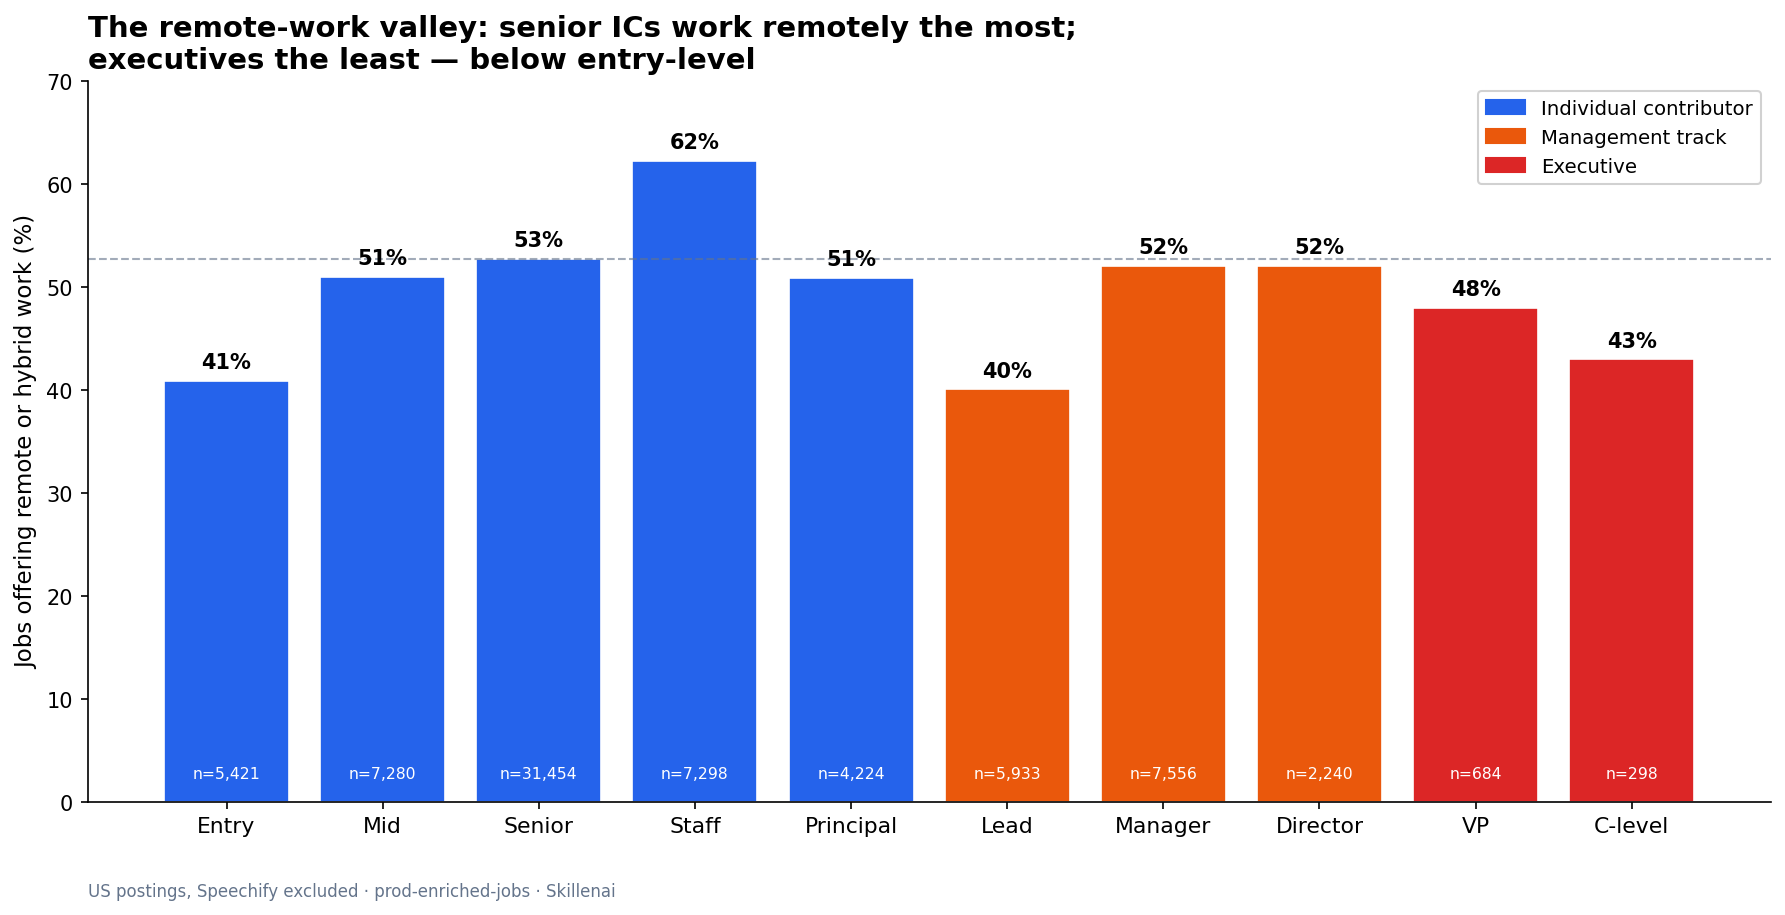
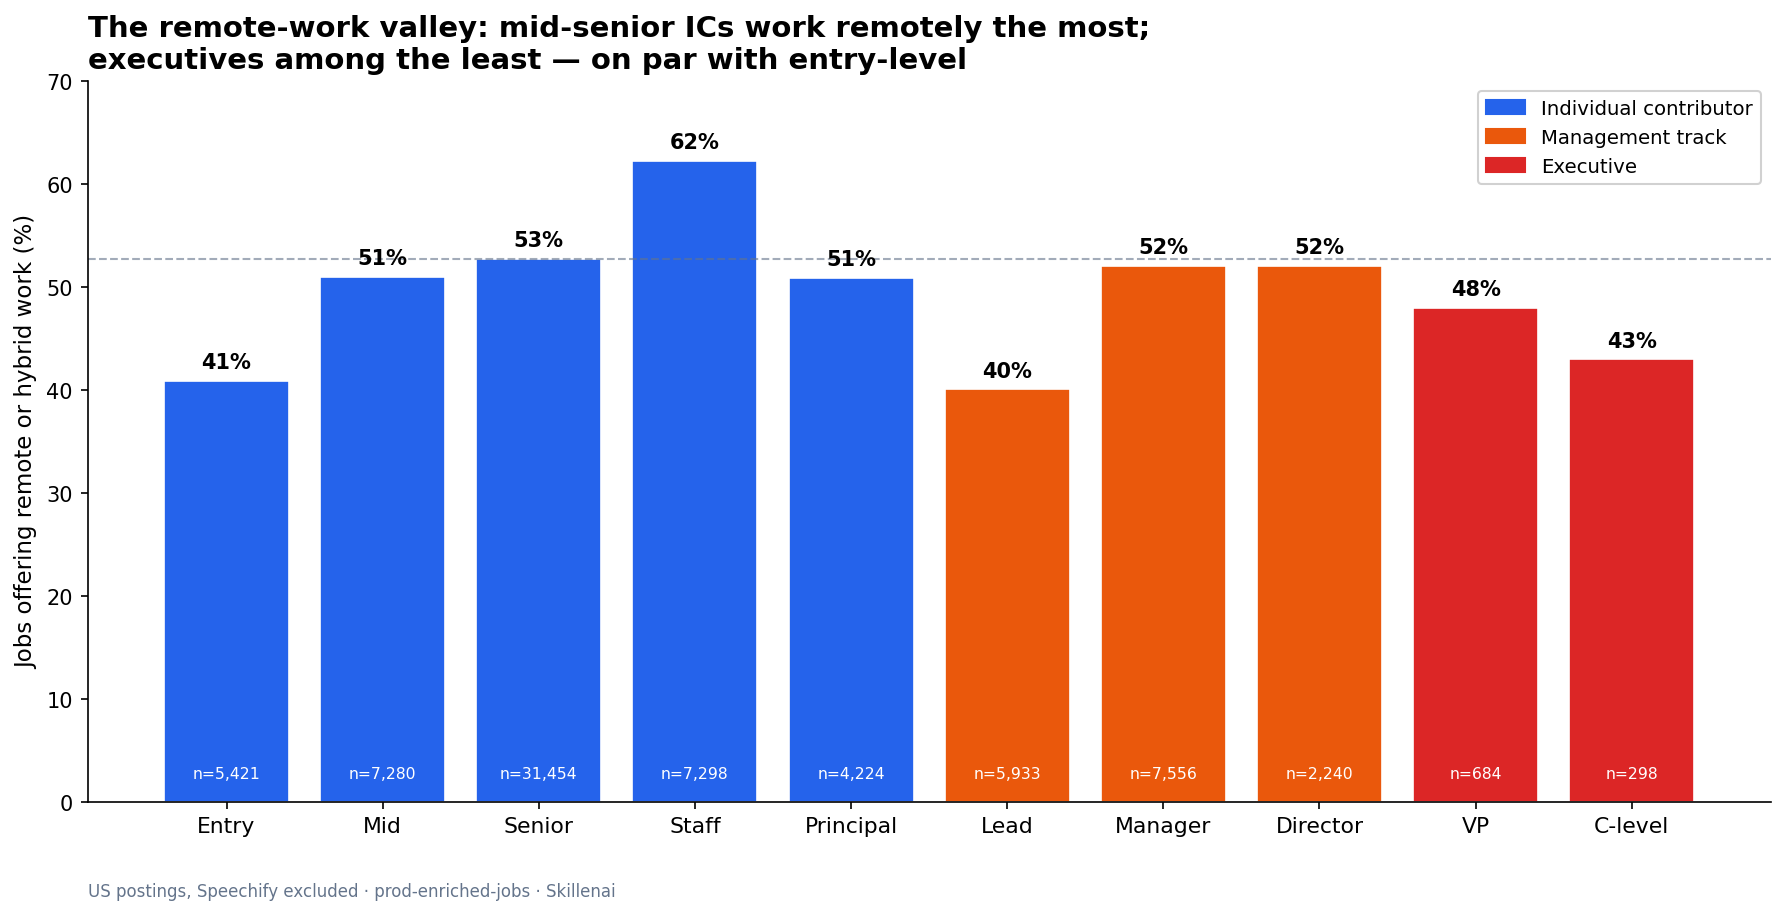
Fix inaccurate exec-remote claim (execs on par with entry, not below)
C-level any-remote is 43.0% vs Entry 40.9% — execs are NOT below entry-level
(Lead 40.1% and Entry are the lowest cohorts). Corrected figure 1 title,
README prose (3 spots), and LinkedIn draft.

Changed region(s): [[0.1541, 0.0, 0.6471, 0.0918]]

diff --git a/middle-management-purge/make_figures.py b/middle-management-purge/make_figures.py
@@ -51,7 +51,7 @@ ax.set_xticklabels(labels, fontsize=10.5)
 ax.set_ylabel("Jobs offering remote or hybrid work (%)", fontsize=11)
 ax.set_ylim(0, 70)
 ax.axhline(52.8, color=GREY, ls="--", lw=1, alpha=0.6)
-ax.set_title("The remote-work valley: senior ICs work remotely the most;\nexecutives the least — below entry-level",
+ax.set_title("The remote-work valley: mid-senior ICs work remotely the most;\nexecutives among the least — on par with entry-level",
              fontsize=14, fontweight="bold", loc="left")
 # Legend
 from matplotlib.patches import Patch

diff --git a/middle-management-purge/README.md b/middle-management-purge/README.md
@@ -18,7 +18,7 @@ A note on what this data is and isn't: we measure the **role structure** of the 
 
 ## Finding 1 — The remote-work valley
 
-Remote/hybrid availability is not monotonic in seniority. On the **individual-contributor (IC) ladder** it rises to a peak at Staff, then the **management ladder sits lower**, and **executives are the least-remote cohort in the entire market** — below even entry-level workers.
+Remote/hybrid availability is not monotonic in seniority. On the **individual-contributor (IC) ladder** it rises to a peak at Staff, then the **management ladder sits lower**, and **executives land at the bottom of the experienced ranks** — on par with entry-level workers (C-level 43% vs Entry 41%) and below every senior IC and management tier.
 
 ![Any-remote share by seniority level](01_remote_by_seniority.png)
 
@@ -37,7 +37,7 @@ Remote/hybrid availability is not monotonic in seniority. On the **individual-co
 
 \* "Lead" is a contaminated bucket — see Finding 2.
 
-**Takeaway:** the people issuing return-to-office mandates (VPs, C-level) are themselves the most office-bound group. They aren't coming back *to* anything; they never left.
+**Takeaway:** the people issuing return-to-office mandates (VPs, C-level) have barely more remote flexibility than the most junior workers — they aren't coming back *to* anything; they never left.
 
 ---
 
@@ -105,7 +105,7 @@ The explanation that fits the timing is a **boom-and-correction cycle in managem
 ## Takeaways
 
 1. **The middle-management purge is real, but the two tidiest explanations both fail in the hiring data.** Remote-first companies are not flatter (three tests, including a between-company ρ of +0.12 in the wrong direction). AI fails on timing.
-2. **The remote-work valley:** senior ICs (Staff, 62%) are the most-remote workers in the market; executives (C-level, 43%) are the least — below entry-level. RTO mandates flow from the group that is already the most office-bound.
+2. **The remote-work valley:** senior ICs (Staff, 62%) are the most-remote workers in the market; executives (C-level, 43%) sit at the bottom of the experienced ranks — on par with entry-level (41%) and below every senior IC and management tier. RTO mandates flow from a group that already has among the least remote flexibility.
 3. **"Lead" has become a meaningless management signal** — a grab-bag of senior-IC and non-management titles — consistent with widely-reported tech title inflation in 2019–2021.
 4. **The driver that fits 2020:** an over-hiring/title-inflation bubble built on cheap money and a tight labor market, now correcting through layoffs because inflated titles can't be walked back.
 

diff --git a/middle-management-purge/linkedin-post.md b/middle-management-purge/linkedin-post.md
@@ -16,7 +16,7 @@ What actually started in 2020 was the unwinding of a title bubble. The ZIRP era 
 
 Title inflation never reverses. You can't re-title someone "junior" without losing them. So it corrected the only way it could: through layoffs of the layer that grew the fastest.
 
-The kicker? In our data, the least-remote workers in the entire market are executives, at 43% — below entry level. The people issuing RTO mandates never left the office themselves.
+The kicker? In our data, executives sit at the bottom of the experienced ranks for remote work — 43%, on par with entry-level and below every senior and management tier. The people issuing RTO mandates never really left the office themselves.
 
 Your title is the weakest signal it has ever been. What's the most inflated title you've seen in the wild?
 